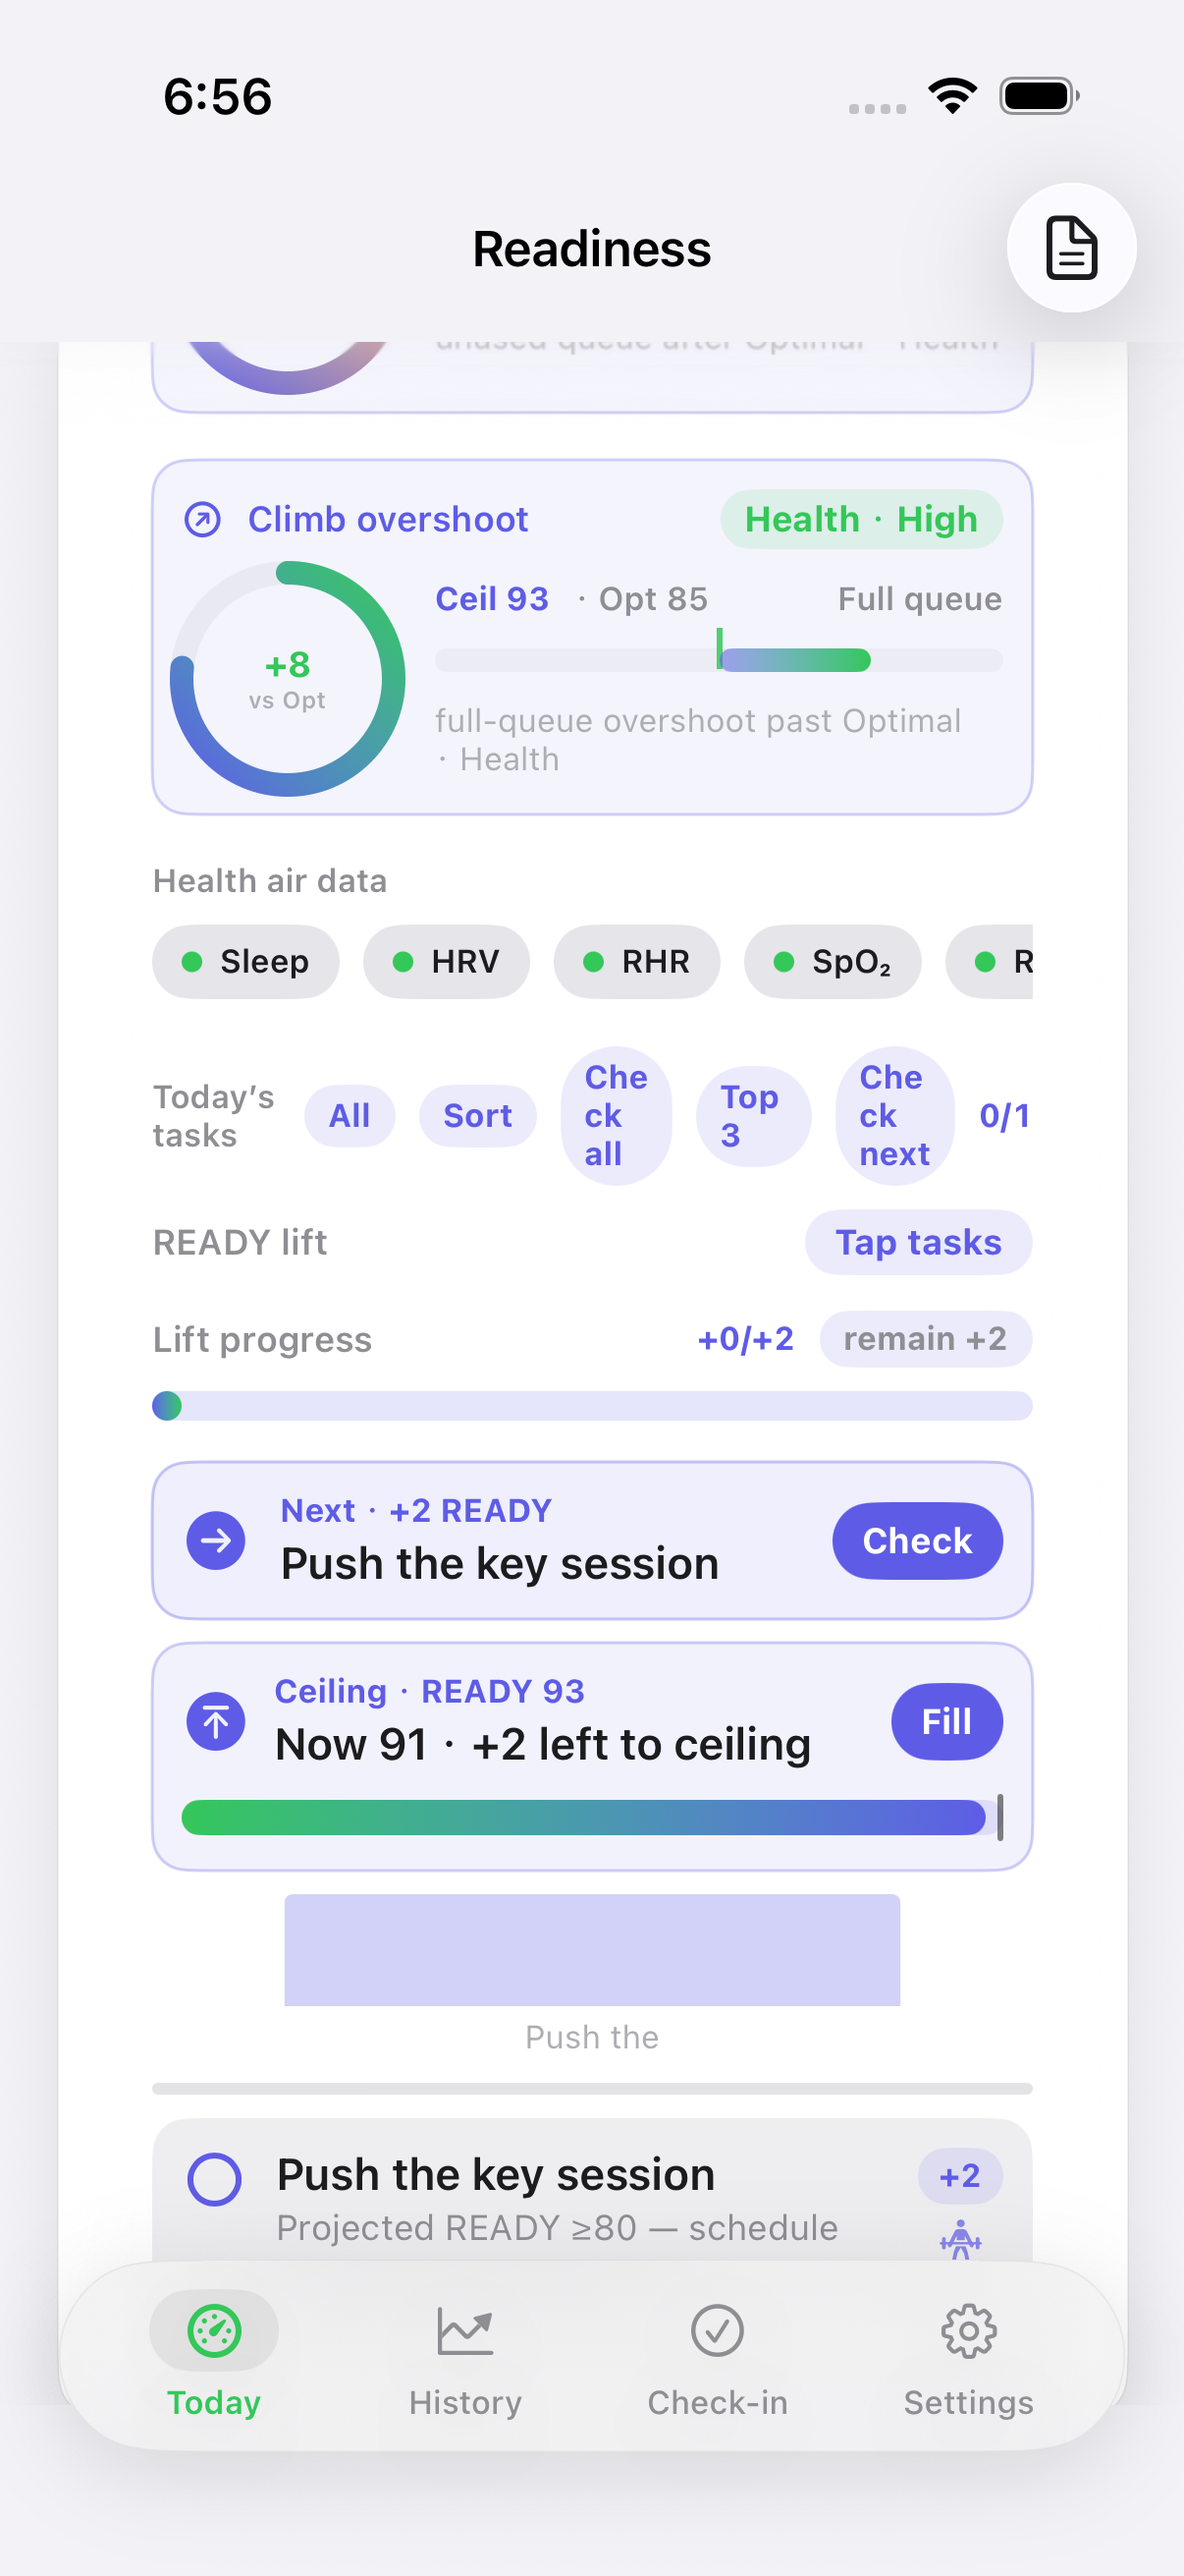
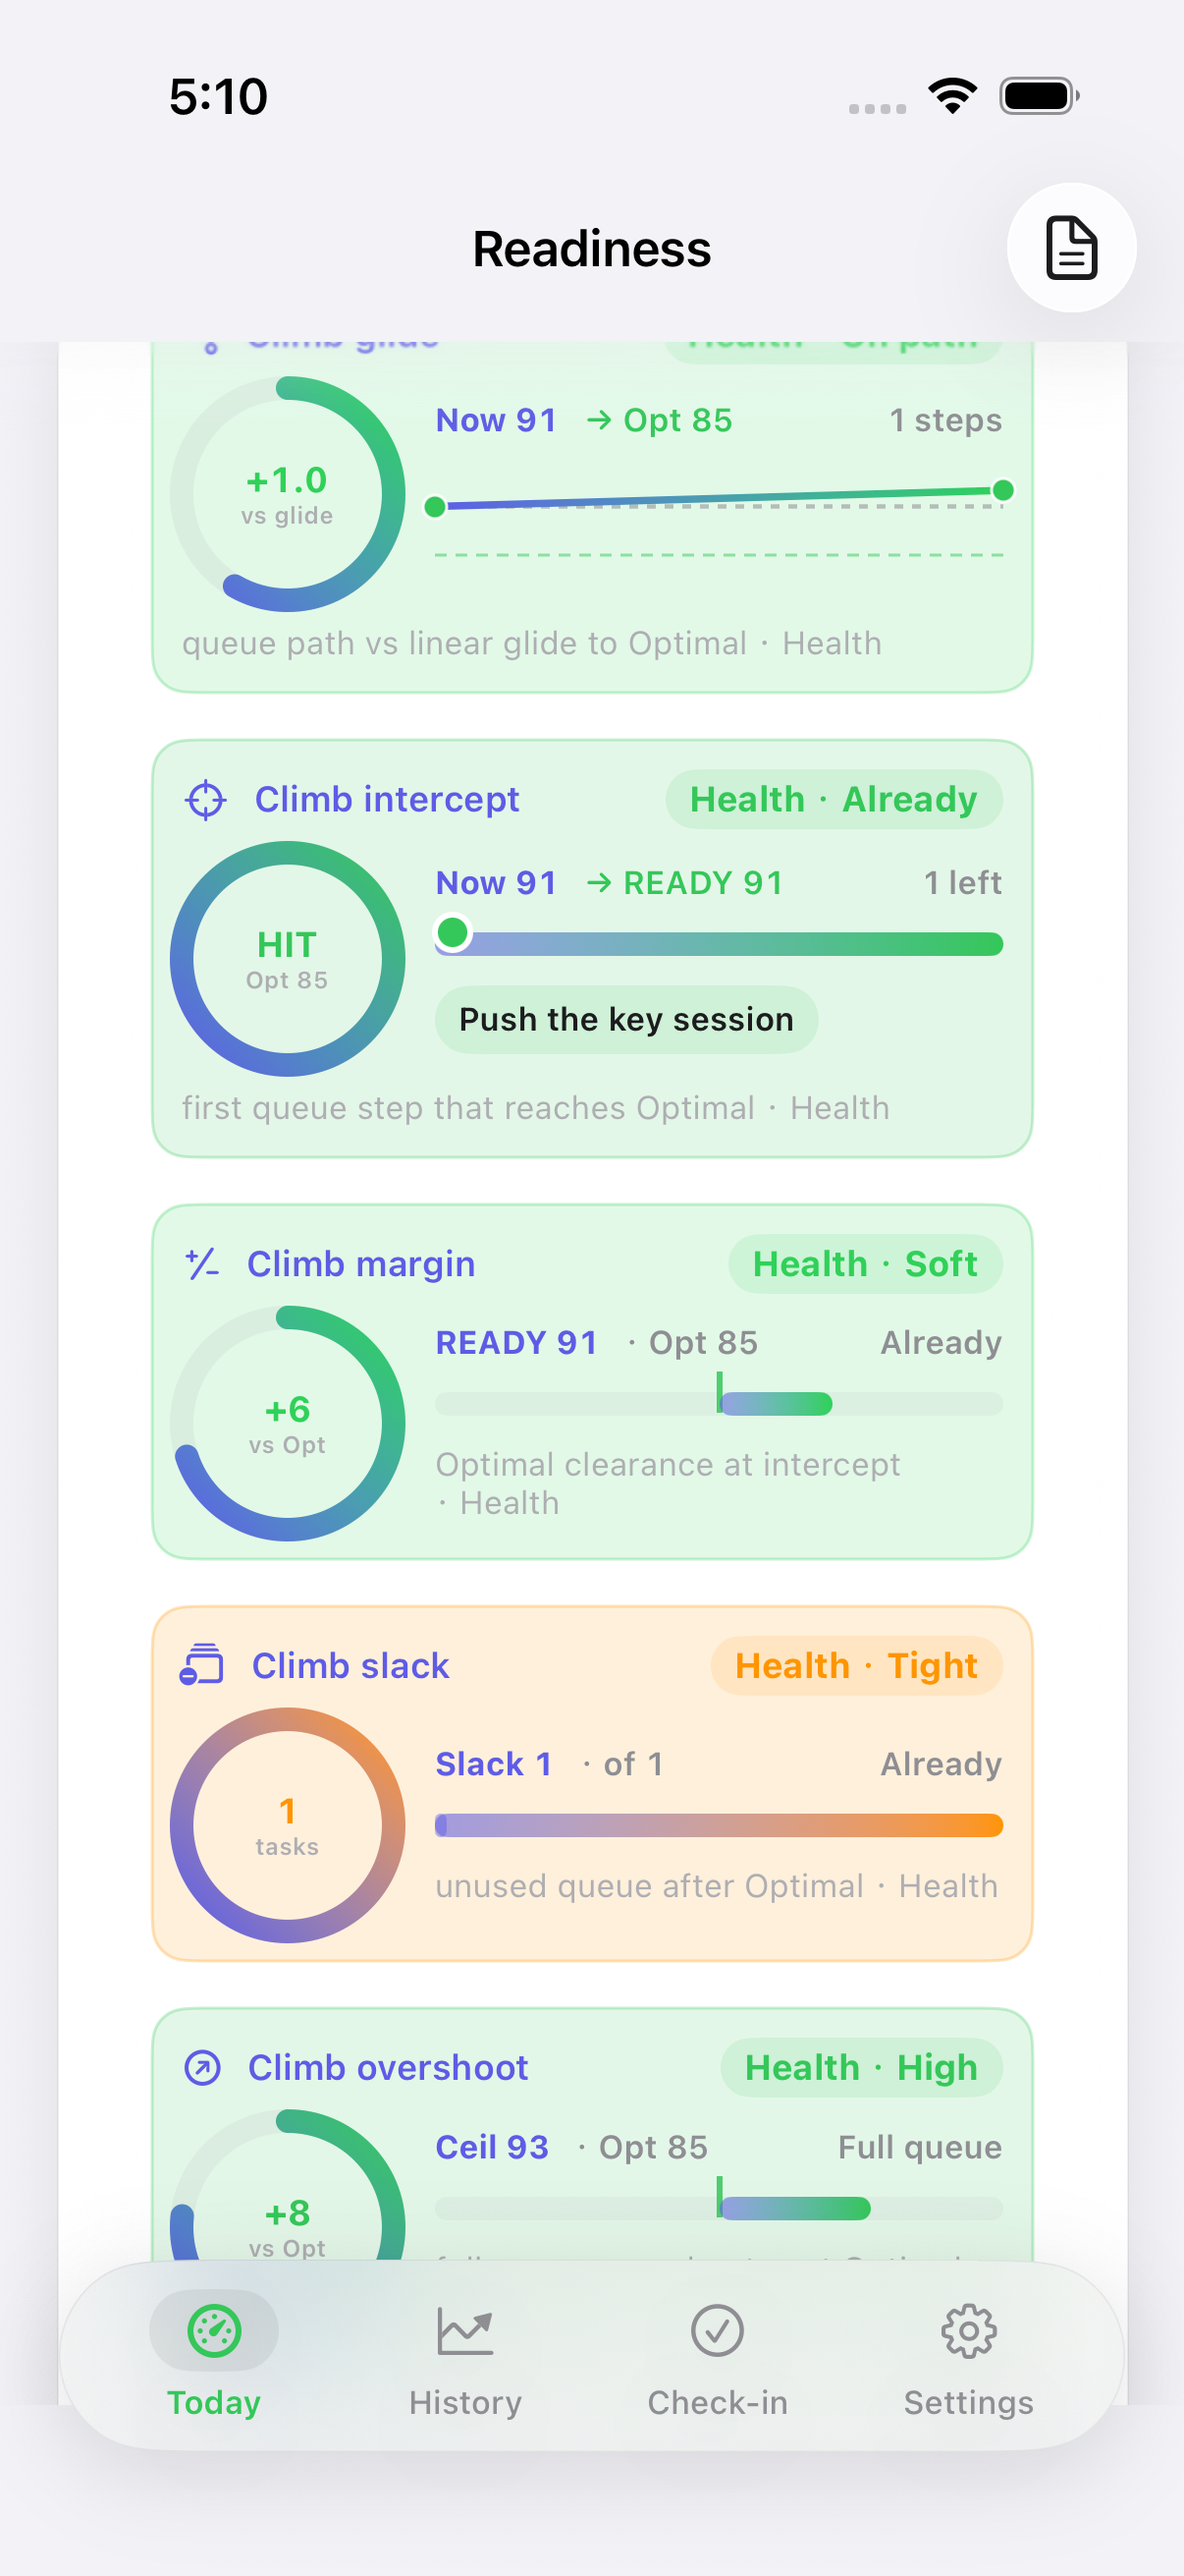
Honest #753: Simulator climb overshoot (WHOOP wells) (#783)
Why: keep Load Simulator climb visuals on WHOOP-well parity so the overshoot dial matches slack/margin/intercept/glide/runway/surplus siblings instead of older flat accent chrome.

Restyle the existing Simulator climb overshoot dial (`sim.load.ready.climb.overshoot`, Honest #714) with WHOOP wells.

- Idle Short (overshoot < 0): ghost/hairline 8%/28% using secondaryText
- Active Exact (overshoot == 0): 14% fill + 28% hairline (caution)
- Active Soft (overshoot >= 1): 14% fill + 28% hairline (good)
- Active High (overshoot >= 8): 14% fill + 28% hairline (optimal)
- No new SurfaceID; no formula / verb / threshold / metric change

Proof: `testReadinessLoadSimulatorSurface` 774.355s, 0 failures (observer 788.465s); `.audit/verify-simulator-climb-overshoot.png`
model=deepseek-flash (mechanical pattern-copy of #752 wells applied locally)

diff --git a/ReadinessTracker/Views/WhoopFeatures/ReadinessLoadSimulatorCard.swift b/ReadinessTracker/Views/WhoopFeatures/ReadinessLoadSimulatorCard.swift
@@ -5037,7 +5037,7 @@ struct ReadinessLoadSimulatorCard: View {
     }
 
 
-    /// Honest #714: READY climb overshoot — full-queue READY vs Optimal after folding all pending.
+    /// Honest #714 / #753: READY climb overshoot — full-queue READY vs Optimal after folding all pending (WHOOP wells).
     @ViewBuilder
     private var readyClimbOvershootDial: some View {
         let pending = tasks.filter { !completedTaskIDs.contains($0.id) }.sorted { $0.readyDelta > $1.readyDelta }
@@ -5074,6 +5074,8 @@ struct ReadinessLoadSimulatorCard: View {
         let disp = overshoot >= 0 ? "+\(overshoot)" : "\(overshoot)"
         // dial fill: map overshoot −15…+15 → 0…1
         let progress = min(1.0, max(0.0, Double(overshoot + 15) / 30.0))
+        let climbOvershootIsActive = overshoot >= 0
+        let wellTone: Color = climbOvershootIsActive ? tone : RTColor.secondaryText
         return VStack(alignment: .leading, spacing: 8) {
             HStack(spacing: 8) {
                 Image(systemName: "arrow.up.right.circle")
@@ -5162,10 +5164,10 @@ struct ReadinessLoadSimulatorCard: View {
             }
         }
         .padding(10)
-        .background(accent.opacity(0.07), in: RoundedRectangle(cornerRadius: 12, style: .continuous))
+        .background(wellTone.opacity(climbOvershootIsActive ? 0.14 : 0.08), in: RoundedRectangle(cornerRadius: 12, style: .continuous))
         .overlay(
             RoundedRectangle(cornerRadius: 12, style: .continuous)
-                .stroke(accent.opacity(0.28), lineWidth: 1)
+                .stroke(wellTone.opacity(0.28), lineWidth: 1)
         )
         .accessibilityIdentifier(SurfaceID.readinessSimulatorClimbOvershoot)
         .accessibilityLabel("Climb overshoot \(verb) \(disp)")

diff --git a/ReadinessTracker/Design/Theme.swift b/ReadinessTracker/Design/Theme.swift
@@ -417,7 +417,7 @@ enum SurfaceID {
     static let readinessSimulatorClimbIntercept = "sim.load.ready.climb.intercept"  // Honest #639 / #750
     static let readinessSimulatorClimbMargin = "sim.load.ready.climb.margin"  // Honest #712 / #751
     static let readinessSimulatorClimbSlack = "sim.load.ready.climb.slack"  // Honest #713 / #752
-    static let readinessSimulatorClimbOvershoot = "sim.load.ready.climb.overshoot"  // Honest #714
+    static let readinessSimulatorClimbOvershoot = "sim.load.ready.climb.overshoot"  // Honest #714 / #753
     static let readinessSimulatorClimbHold = "sim.load.ready.climb.hold"  // Honest #715
     static let readinessSimulatorClimbCeiling = "sim.load.ready.climb.ceiling"  // Honest #716
     static let fitbitAirChipSparkRange = "fitbit.air.chip.spark.range"  // Honest #544

diff --git a/ReadinessTrackerUITests/SurfacesUITests.swift b/ReadinessTrackerUITests/SurfacesUITests.swift
@@ -10999,7 +10999,7 @@ final class SurfacesUITests: XCTestCase {
         saveShot("verify-simulator-climb-slack.png")
 
 
-        // Honest #714: READY climb overshoot
+        // Honest #714 / #753: READY climb overshoot (WHOOP wells)
         let climbOvershoot = app.descendants(matching: .any)["sim.load.ready.climb.overshoot"].firstMatch
         XCTAssertTrue(climbOvershoot.waitForExistence(timeout: 5)
                       || app.descendants(matching: .any)["sim.load.ready.climb.slack"].firstMatch.exists

diff --git a/.audit/decision-log-2026-11-04.md b/.audit/decision-log-2026-11-04.md
@@ -355,3 +355,8 @@
 | 04:47 HKT | #752 Simulator climb slack | prove | UITest suite green /tmp/RT-DD752 (777.975s, 0 failures; observer 791.304s); model=deepseek-flash |
 | 04:48 HKT | #752 Simulator climb slack | land | proof PNG + receipt; SID sim.load.ready.climb.slack; PR squash next; model=deepseek-flash |
 
+| 04:57 HKT | Honest #753 Simulator climb overshoot | model=deepseek-flash | restyle existing sim.load.ready.climb.overshoot after climb slack #752; WHOOP ghost/active wells; mechanical pattern-copy of #752 wells applied locally (no separate model iterate needed) | mid-ship |
+| 04:57 HKT | Honest #753 Simulator climb overshoot | prove | started UITest /tmp/RT-DD753; model=deepseek-flash | mid-ship |
+
+| 05:16 HKT | #753 Simulator climb overshoot | prove | UITest suite green /tmp/RT-DD753 (774.355s, 0 failures; observer 788.465s); model=deepseek-flash |
+| 05:16 HKT | #753 Simulator climb overshoot | land | proof PNG + receipt; SID sim.load.ready.climb.overshoot; PR squash next; model=deepseek-flash |

diff --git a/.audit/simulator-climb-overshoot.md b/.audit/simulator-climb-overshoot.md
@@ -1,5 +1,6 @@
-# Honest #714: Simulator climb overshoot
+# Honest #714 / #753: Simulator climb overshoot (WHOOP wells)
 
-Full-queue READY vs Optimal (85) after folding all pending. High/Soft/Exact/Short dial.
+Full-queue READY vs Optimal (85) after folding all pending. High/Soft/Exact/Short dial + bipolar bar.
+Idle Short (overshoot < 0) = ghost/hairline 8/28 using secondaryText; active Exact (overshoot == 0) = 14 fill + 28 hairline (caution); active Soft (overshoot >= 1) = 14 fill + 28 hairline (good); active High (overshoot >= 8) = 14 fill + 28 hairline (optimal).
 SurfaceID: `sim.load.ready.climb.overshoot`
 Proof: `.audit/verify-simulator-climb-overshoot.png`

diff --git a/.audit/features/simulator-climb-overshoot.md b/.audit/features/simulator-climb-overshoot.md
@@ -1,4 +1,6 @@
-# Honest #714: Simulator climb overshoot
+# Honest #714 / #753: Simulator climb overshoot (WHOOP wells)
 
 SurfaceID: `sim.load.ready.climb.overshoot`
+Idle Short (overshoot < 0) = ghost/hairline 8/28 using secondaryText; active Exact (overshoot == 0) = 14 fill + 28 hairline (caution); active Soft (overshoot >= 1) = 14 fill + 28 hairline (good); active High (overshoot >= 8) = 14 fill + 28 hairline (optimal).
 Proof: `.audit/verify-simulator-climb-overshoot.png`
+UITest: `testReadinessLoadSimulatorSurface`
